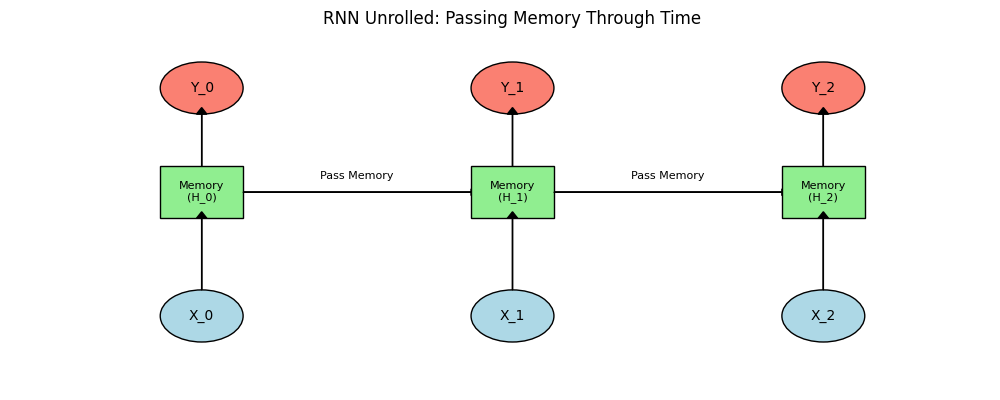
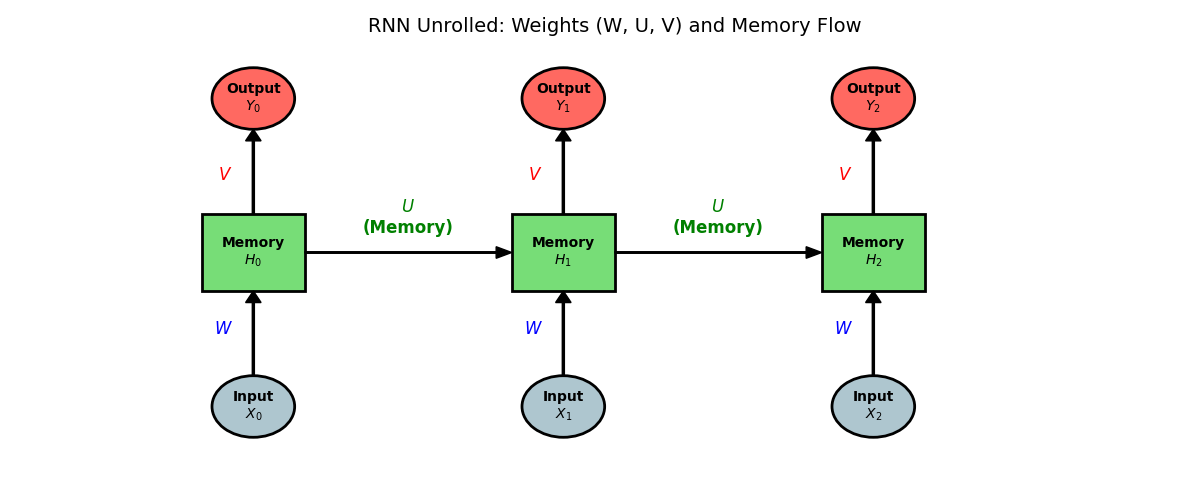
feat: Add Day 27 project for RNN stock prediction including code, documentation, and visualizations.

Changed region(s): [[0.155, 0.12, 0.868, 0.9], [0.31, 0.03, 0.713, 0.09]]

diff --git a/day27/RNN_Stock_Prediction.py b/day27/RNN_Stock_Prediction.py
@@ -114,40 +114,47 @@ print("Prediction Result plot saved.")
 
 # 視覺化 3: RNN 概念圖 (Unrolled RNN)
 def plot_rnn_concept():
-    fig, ax = plt.subplots(figsize=(10, 4))
+    fig, ax = plt.subplots(figsize=(12, 5))
     ax.axis('off')
+    ax.set_xlim(-1, 8)
+    ax.set_ylim(-0.5, 4.5)
     
     # Draw Time Steps
     for i in range(3):
         x_offset = i * 3
         
         # Input (X)
-        circle_x = plt.Circle((x_offset, 0), 0.4, fc='lightblue', ec='black')
+        circle_x = plt.Circle((x_offset, 0), 0.4, fc='#AEC6CF', ec='black', lw=2)
         ax.add_patch(circle_x)
-        ax.text(x_offset, 0, f"X_{i}", ha='center', va='center')
+        ax.text(x_offset, 0, f"Input\n$X_{i}$", ha='center', va='center', fontweight='bold')
         
         # Hidden State (H) - The Memory
-        rect_h = plt.Rectangle((x_offset - 0.4, 1.5), 0.8, 0.8, fc='lightgreen', ec='black')
+        rect_h = plt.Rectangle((x_offset - 0.5, 1.5), 1.0, 1.0, fc='#77DD77', ec='black', lw=2)
         ax.add_patch(rect_h)
-        ax.text(x_offset, 1.9, f"Memory\n(H_{i})", ha='center', va='center', fontsize=8)
+        ax.text(x_offset, 2.0, f"Memory\n$H_{i}$", ha='center', va='center', fontweight='bold')
         
-        # Output (Y) - Optional for intermediate steps, but let's draw it
-        circle_y = plt.Circle((x_offset, 3.5), 0.4, fc='salmon', ec='black')
+        # Output (Y)
+        circle_y = plt.Circle((x_offset, 4.0), 0.4, fc='#FF6961', ec='black', lw=2)
         ax.add_patch(circle_y)
-        ax.text(x_offset, 3.5, f"Y_{i}", ha='center', va='center')
+        ax.text(x_offset, 4.0, f"Output\n$Y_{i}$", ha='center', va='center', fontweight='bold')
         
-        # Arrows
-        # X -> H
-        ax.arrow(x_offset, 0.4, 0, 1.1, head_width=0.1, head_length=0.1, fc='k', ec='k')
-        # H -> Y
-        ax.arrow(x_offset, 2.3, 0, 0.8, head_width=0.1, head_length=0.1, fc='k', ec='k')
+        # Arrows with Weights
+        arrow_params = dict(head_width=0.15, head_length=0.15, fc='black', ec='black', length_includes_head=True)
         
-        # Recurrent Arrow (H_i -> H_i+1)
-        if i < 2:
-            ax.arrow(x_offset + 0.4, 1.9, 2.2, 0, head_width=0.1, head_length=0.1, fc='k', ec='k')
-            ax.text(x_offset + 1.5, 2.1, "Pass Memory", ha='center', fontsize=8)
+        # X -> H (Weight W)
+        ax.arrow(x_offset, 0.4, 0, 1.1, **arrow_params, width=0.02)
+        ax.text(x_offset - 0.2, 1.0, "$W$", ha='right', va='center', fontsize=12, color='blue', fontweight='bold')
 
-    plt.title("RNN Unrolled: Passing Memory Through Time", y=1.05)
+        # H -> Y (Weight V)
+        ax.arrow(x_offset, 2.5, 0, 1.1, **arrow_params, width=0.02)
+        ax.text(x_offset - 0.2, 3.0, "$V$", ha='right', va='center', fontsize=12, color='red', fontweight='bold')
+        
+        # Recurrent Arrow (H_i -> H_i+1) (Weight U)
+        if i < 2:
+            ax.arrow(x_offset + 0.5, 2.0, 2.0, 0, **arrow_params, width=0.02)
+            ax.text(x_offset + 1.5, 2.2, "$U$\n(Memory)", ha='center', va='bottom', fontsize=12, color='green', fontweight='bold')
+
+    plt.title("RNN Unrolled: Weights (W, U, V) and Memory Flow", y=1.05, fontsize=14)
     plt.savefig(os.path.join(pic_dir, '27-3_RNN_Concept.png'))
     print("RNN Concept plot saved.")
 

diff --git a/day27/README.md b/day27/README.md
@@ -26,11 +26,11 @@
 
 ### 圖解：RNN 的時間旅行
 ![RNN Concept](pic/27-3_RNN_Concept.png)
-*   **核心公式**：`New_Memory = tanh(W * Input + U * Old_Memory + b)`
-    *   這公式說明了：今天的記憶，是由 **「今天的輸入」** 加上 **「昨天的記憶」** 混合而成的。
-*   **X (Input)**：今天的股價。
-*   **H (Memory)**：筆記本 (隱藏狀態)。
-*   **Loop (箭頭)**：圖中橫向的箭頭，代表 **「把昨天的記憶 ($H_{t-1}$) 傳給今天 ($H_t$)」**。這就是 RNN 能記住歷史的關鍵！
+*   **核心公式**：$H_t = \tanh(W \cdot X_t + U \cdot H_{t-1} + b)$
+    *   **$W$ (藍色箭頭)**：負責處理 **今天的輸入** ($X_t$)。
+    *   **$U$ (綠色箭頭)**：負責傳遞 **昨天的記憶** ($H_{t-1}$)。這就是 Loop！
+    *   **$V$ (紅色箭頭)**：負責根據現在的記憶算出 **今天的輸出** ($Y_t$)。
+*   **意義**：今天的記憶 ($H_t$) 是由「當下發生的事」和「過去的經驗」混合而成的。
 
 ## 3. 實戰
 ### Python 程式碼實作
